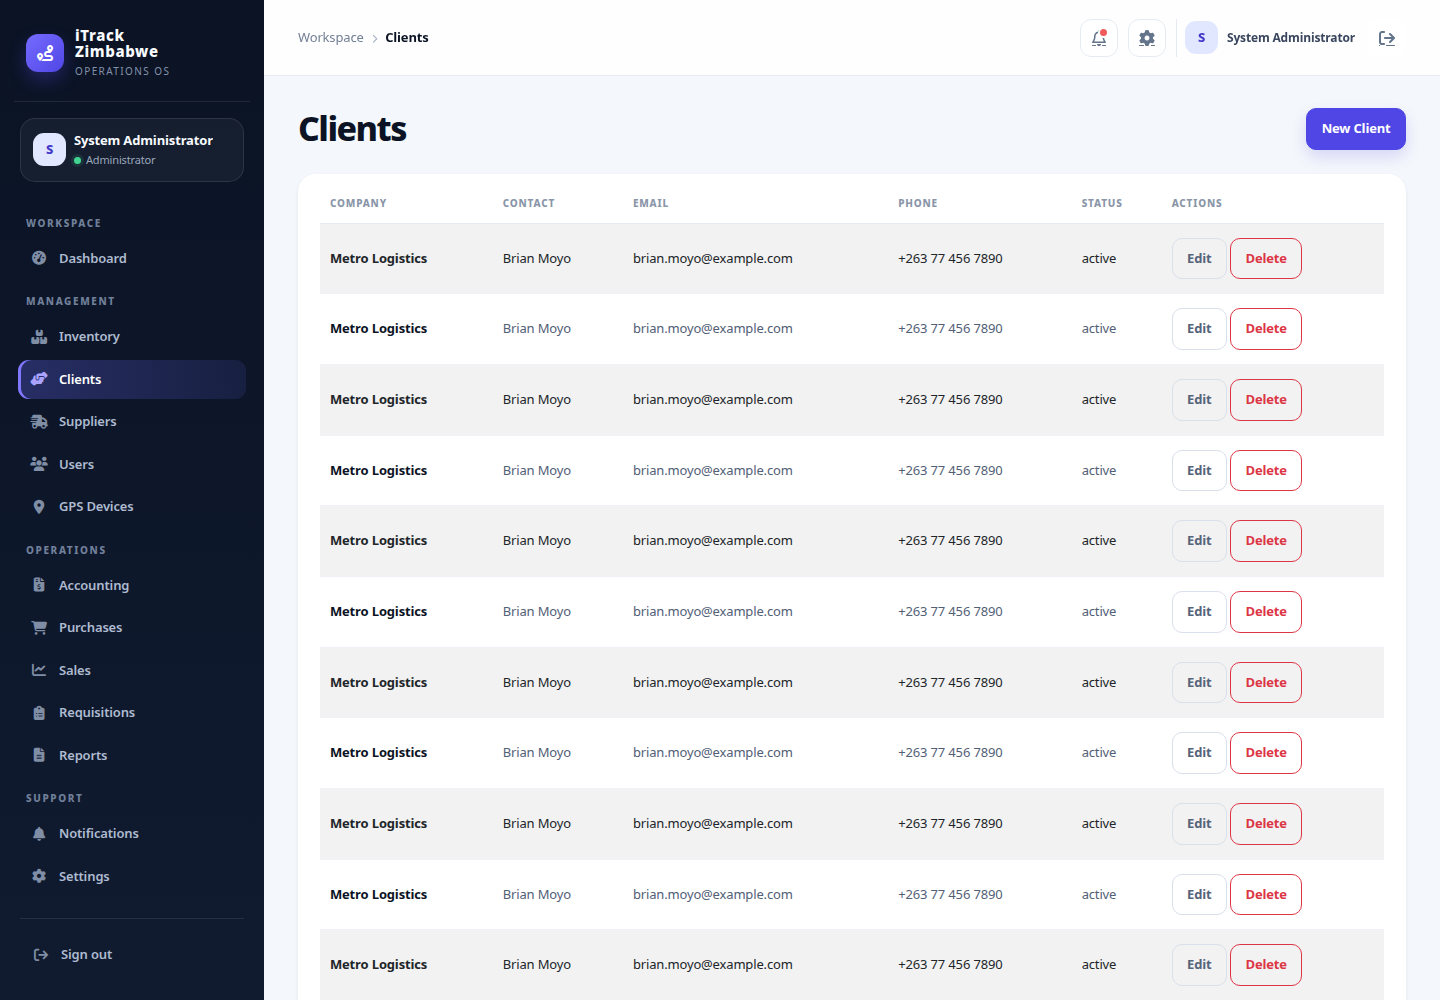
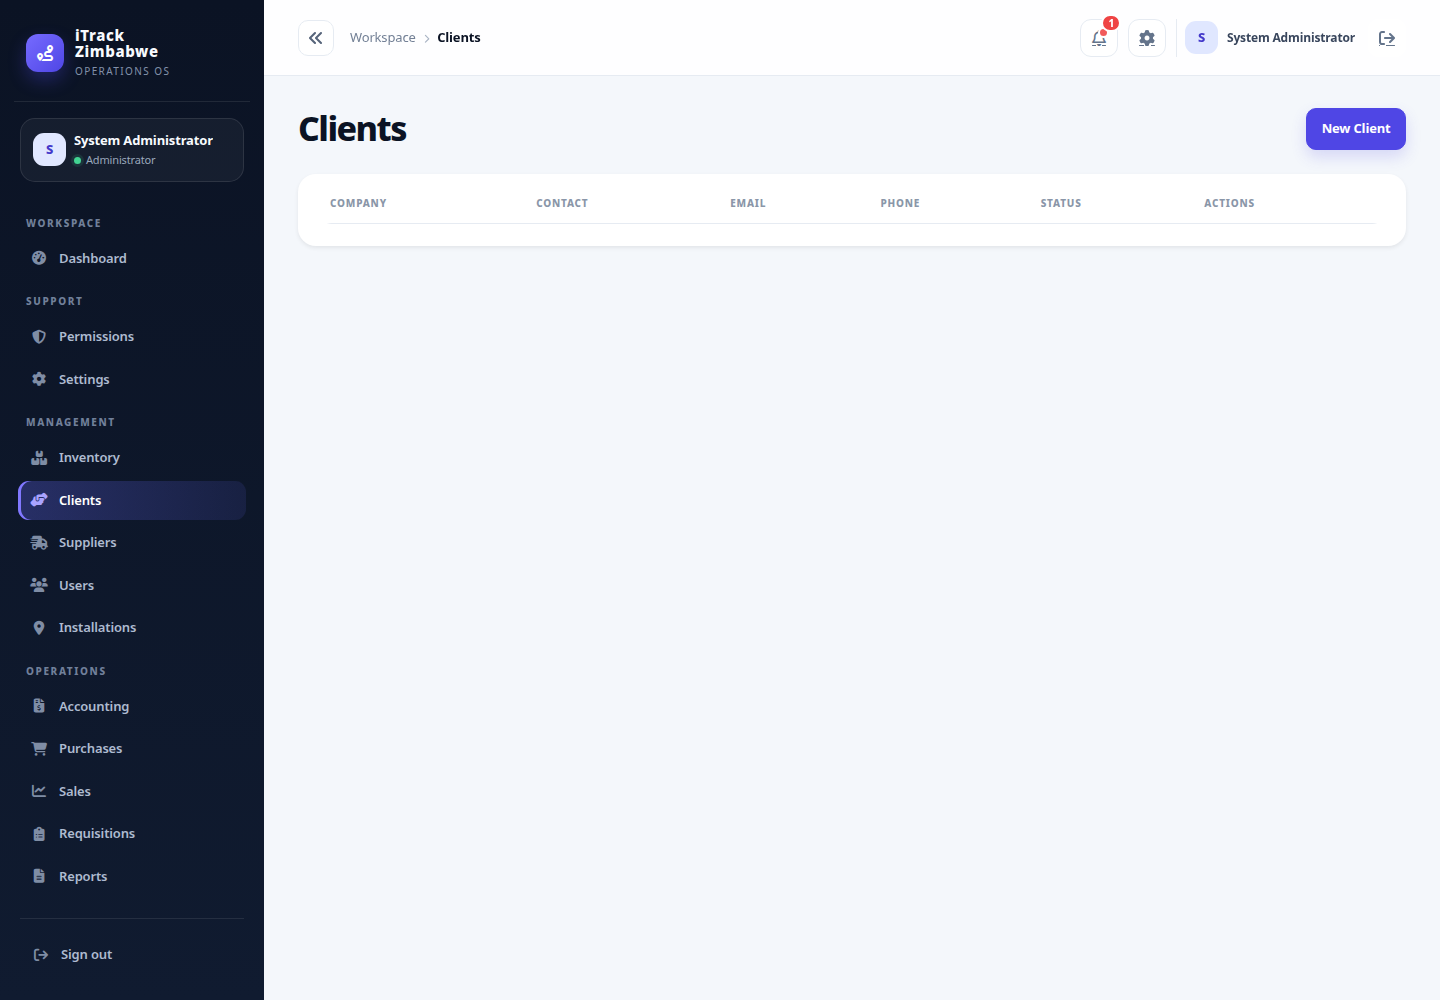
docs: refresh README and application screenshots

diff --git a/README.md b/README.md
@@ -1,95 +1,248 @@
 # iTrack Zimbabwe
 
-**iTrack Zimbabwe** is a PHP 8.1+ ERP-style operations application for inventory, procurement, sales, accounting, GPS device management, requisitions, reporting, notifications, and user administration.
+**iTrack Zimbabwe** is a lightweight PHP 8.1+ ERP-style operations platform for managing inventory, tracker installations, procurement, sales, accounting, requisitions, reporting, notifications, and users.
 
-## Implemented modules
+The application uses a small MVC structure built with plain PHP classes and PDO. It can run locally with SQLite and can be deployed with MySQL behind Apache, Nginx, or another PHP-capable web server.
 
-The application now includes authenticated dashboard access with role-aware navigation, inventory CRUD, supplier and client CRUD, GPS device CRUD, notification CRUD, user administration, purchase-order capture and status updates, sales capture and status visibility, requisition submission and approval, report-record generation with preset or custom calendar date ranges, accounting summary data, and reusable security, session, validation, formatting, upload, and permission helpers.
+## Current functionality
 
-The public JSON surface is available at `/api/auth.php`, `/api/inventory.php`, `/api/purchases.php`, `/api/sales.php`, `/api/requisitions.php`, `/api/reports.php`, `/api/accounting.php`, and `/api/gps.php` when using the built-in server. The original API files remain available at the repository-level `api/` directory for Apache deployments.
+### Authentication and access control
 
-## Inventory and GPS device records
+- Login and logout with session-based authentication.
+- Optional staff registration, controlled by `APP_ALLOW_REGISTRATION`.
+- Forgot-password and expiring password-reset-token flows.
+- Authenticated password changes.
+- CSRF protection, server-side validation, input sanitisation, and permission checks.
+- Role-aware navigation and module access.
+- Configurable role/module permission matrix.
 
-**Inventory** is the stock register for FLS units, cameras, SIM cards, mobile lines, and trackers. Each stock item has a category, model/type, quantity, prices, and an optional numeric serial number or IMEI. **Installations** records the tracker and any package equipment used, selecting only items currently in stock and reducing inventory quantities when saved. Invoices can be created from an installation.
+### Operations modules
 
-These are currently separate records in separate tables. Registering the same physical tracker in both modules does not link or transfer it between stock and operational tracking; that lifecycle connection is not implemented yet.
+- **Dashboard** – role-aware workspace with operational summaries and available-module access.
+- **Inventory** – stock records for trackers, FLS units, cameras, SIM cards/mobile lines, and related equipment; quantities, cost prices, selling prices, units, and optional numeric identifiers such as serial numbers, SIM numbers, or IMEIs.
+- **Bulk inventory** – create multiple stock lines in one submission, with validation for serialized items.
+- **Installations / GPS devices** – record tracker installations, tracker identifiers, and optional FLS, camera, and package equipment selected from available stock. Stock quantities are reduced when equipment is assigned.
+- **Bulk installations** – record several installations in one workflow.
+- **Clients** – customer and client organization records.
+- **Suppliers** – procurement partner records.
+- **Purchases** – purchase-order capture and status updates with supplier workflows and notifications.
+- **Sales** – sales capture and status visibility.
+- **Requisitions** – internal requests with approval and decision workflows.
+- **Notifications** – create, edit, delete, list, and mark notifications as read.
+- **Users** – staff accounts, roles, departments, and account status management.
+- **Settings** – application administration and configuration access.
+
+### Accounting and reporting
+
+- **Accounting summary** with access controlled for finance users.
+- **Invoices** with create, edit, delete, and print views.
+- **Payments**, **expenses**, **petty cash**, and **cash book** records with CRUD workflows.
+- **Reports** with operational and financial report types, preset periods, custom date ranges, previews, generated records, and export support.
+- **Report exports** through the PDF and XLSX report services.
+- Optional OpenRouter-powered business insights using bounded report aggregates. The assistant does not execute AI-generated SQL or receive customer names.
 
 ## Requirements
 
-- PHP 8.1 or newer
-- PDO SQLite for the local fallback, or PDO MySQL for production
-- A writable `storage/` directory and writable upload directories
+- PHP 8.1 or newer.
+- PDO SQLite for the local fallback, or PDO MySQL for MySQL deployments.
+- A web server such as Apache or Nginx for production, or PHP's built-in server for local development.
+- A writable `storage/` directory for the SQLite database, logs, and runtime files.
+- A writable `uploads/` directory when upload features are enabled.
+- Composer is optional; the project currently has no third-party runtime dependency requirement.
 
-## Run locally
+## Quick start
 
 From the repository root:
 
 ```bash
+git clone https://github.com/PraiseTechzw/itrack-zimbabwe.git
+cd itrack-zimbabwe
 php -S 127.0.0.1:8000 -t public
 ```
 
-On Windows (PowerShell or Command Prompt), run the same command:
+Open [http://127.0.0.1:8000/login.php](http://127.0.0.1:8000/login.php).
+
+On Windows with XAMPP, use the PHP executable supplied by XAMPP:
 
 ```powershell
 C:\xampp\php\php.exe -S 127.0.0.1:8000 -t public
 ```
 
-Open [http://127.0.0.1:8000/login.php](http://127.0.0.1:8000/login.php).
+Make sure the runtime directories exist and are writable by the PHP process:
 
-The application creates or uses `storage/itrack.sqlite` when PDO MySQL is unavailable. Configure `APP_BASE_URL`, database settings, and session settings in `.env` for a subdirectory or production deployment.
-
-### AI business insights
-
-The Reports page includes an optional OpenRouter assistant for questions about recent sales, low stock, and purchase-order totals. Configure an OpenRouter API key in the server-side `.env` file:
-
-```dotenv
-OPENROUTER_API_KEY="your-server-side-key"
-OPENROUTER_MODEL="openrouter/free"
+```bash
+mkdir -p storage uploads
+chmod -R u+rwX storage uploads
 ```
 
-The assistant sends the question and bounded report aggregates to OpenRouter; it does not send customer names or execute AI-generated SQL. Free model availability and rate limits can change. Keep the key out of source control, and do not enter personal or confidential information in prompts.
+The application creates `storage/itrack.sqlite` automatically when SQLite is selected or when PDO MySQL is unavailable.
+
+## Configuration
+
+The application reads an optional `.env` file from the repository root. Environment variables can also be supplied by the server process.
+
+```dotenv
+APP_NAME="iTrack Zimbabwe"
+APP_ENV=development
+APP_DEBUG=false
+APP_BASE_URL=/itrack-zimbabwe
+APP_PUBLIC_URL=
+APP_ALLOW_REGISTRATION=true
+APP_SESSION_SECURE=false
+SESSION_NAME=itrack_session
+CSRF_TOKEN_NAME=csrf_token
+
+# Use mysql explicitly for production, or auto for the default behaviour.
+DB_DRIVER=auto
+DB_HOST=127.0.0.1
+DB_PORT=3306
+DB_NAME=itrack_zimbabwe
+DB_USER=root
+DB_PASS=
+DB_SQLITE_PATH=/absolute/path/to/storage/itrack.sqlite
+
+UPLOAD_DIR=/absolute/path/to/uploads
+MAIL_FROM=no-reply@example.com
+
+# Optional Reports assistant
+OPENROUTER_API_KEY=
+OPENROUTER_MODEL=openrouter/free
+```
+
+Important configuration notes:
+
+- Set `APP_BASE_URL` to the path where the application is mounted. Use `/` when it is served at the domain root.
+- Set `APP_PUBLIC_URL` when generated links must use a complete public URL.
+- Set `APP_SESSION_SECURE=true` when the application is served over HTTPS.
+- Disable public registration in production unless it is intentionally required.
+- Keep database credentials and API keys out of source control.
+- `DB_DRIVER=mysql` selects MySQL explicitly. The default `auto` mode uses the available PDO driver and falls back to SQLite when MySQL is unavailable.
 
 ## Default local login
+
+The seeded local account is:
 
 - Email: `admin@example.com`
 - Password: `password`
 
-Change the default password immediately in any non-local environment.
+Change this password immediately outside a local development environment.
 
-## Screenshots
+## Current application screenshots
 
-The repository includes current application screenshots in [`docs/screenshots/`](docs/screenshots/). The gallery covers the public login screen and the authenticated dashboard and module pages.
+The following screenshots were captured from the running application after the current build was started and authenticated with the local seeded account. They are documentation captures only and contain no production data.
 
 | Screen | Preview |
 |---|---|
-| Login | ![Login screen](docs/screenshots/login.png) |
-| Dashboard | ![Dashboard](docs/screenshots/dashboard.png) |
-| Dashboard mobile | ![Mobile dashboard](docs/screenshots/dashboard-mobile.png) |
-| Inventory | ![Inventory](docs/screenshots/inventory.png) |
-| Purchases | ![Purchases](docs/screenshots/purchases.png) |
-| Sales | ![Sales](docs/screenshots/sales.png) |
-| Requisitions | ![Requisitions](docs/screenshots/requisitions.png) |
-| Reports | ![Reports](docs/screenshots/reports.png) |
-| Accounting | ![Accounting](docs/screenshots/accounting.png) |
-| GPS devices | ![GPS devices](docs/screenshots/gps.png) |
-| Clients | ![Clients](docs/screenshots/clients.png) |
-| Suppliers | ![Suppliers](docs/screenshots/suppliers.png) |
-| Notifications | ![Notifications](docs/screenshots/notifications.png) |
-| Users | ![Users](docs/screenshots/users.png) |
-| Settings | ![Settings](docs/screenshots/settings.png) |
+| Login | ![Current login screen](docs/screenshots/login.png) |
+| Dashboard | ![Current dashboard](docs/screenshots/dashboard.png) |
+| Dashboard mobile | ![Current mobile dashboard](docs/screenshots/dashboard-mobile.png) |
+| Inventory | ![Current inventory](docs/screenshots/inventory.png) |
+| Installations / GPS devices | ![Current installations screen](docs/screenshots/gps.png) |
+| Accounting | ![Current accounting screen](docs/screenshots/accounting.png) |
+| Reports | ![Current reports screen](docs/screenshots/reports.png) |
+| Clients | ![Current clients screen](docs/screenshots/clients.png) |
+
+## MySQL setup
+
+For a new MySQL database:
+
+1. Create a database named `itrack_zimbabwe`.
+2. Configure the `DB_*` variables in `.env`.
+3. Import [`database/schema.sql`](database/schema.sql).
+4. Import [`database/seed.sql`](database/seed.sql).
+5. Apply any required scripts in [`database/migrations/`](database/migrations/) to an existing database before deploying code that depends on those changes.
+
+Important migrations cover inventory device details, IMEIs, SIM numbers, password-reset tokens, stock-backed installations and invoices, and the mobile-line/SIM-card model update.
 
 ## Application routes
 
-All authenticated modules are routed through `public/index.php` using the `controller` and `action` query parameters. Examples include `?controller=inventory`, `?controller=clients`, `?controller=purchases`, `?controller=sales`, `?controller=requisition`, `?controller=reports`, `?controller=notification`, and `?controller=settings`.
+Authenticated modules are routed through `public/index.php` using `controller` and `action` query parameters. Examples:
 
-## Database
+```text
+/index.php?controller=inventory
+/index.php?controller=gps
+/index.php?controller=accounting&action=invoices
+/index.php?controller=purchases
+/index.php?controller=sales
+/index.php?controller=requisition
+/index.php?controller=reports
+/index.php?controller=notification
+/index.php?controller=permissions
+/index.php?controller=settings
+```
 
-MySQL deployments should import `database/schema.sql` followed by `database/seed.sql` and set the `DB_*` variables in `.env`. Local development uses the SQLite schema and seed logic in `app/config/database.php`.
+Public entry points are available under [`public/`](public/), including the login, logout, dashboard, and API entry points. The repository-level [`api/`](api/) copies remain available for Apache deployments that expose them directly.
 
-## Verification
+## JSON API
 
-The project has been checked with a full PHP syntax pass, authenticated HTTP smoke tests for every dashboard module, public registration and password-recovery page checks, JSON validation for every public API endpoint, and authenticated create-action checks for purchases, sales, requisitions, and reports.
+The read-oriented API endpoints return JSON with an `ok` flag and module-specific data. The authentication endpoint also supports login and session checks.
 
-## Documentation
+| Endpoint | Purpose |
+|---|---|
+| `/api/auth.php` | Authentication and session status |
+| `/api/inventory.php` | Inventory products and stock records |
+| `/api/purchases.php` | Purchase orders |
+| `/api/sales.php` | Sales records |
+| `/api/requisitions.php` | Requisitions |
+| `/api/reports.php` | Reports |
+| `/api/accounting.php` | Accounting data |
+| `/api/gps.php` | Tracker installation / GPS device records |
 
-Additional installation, development, architecture, deployment, and security guidance is available in [docs](docs/).
+When using the built-in server, use the corresponding paths under `public/api/`, for example `http://127.0.0.1:8000/api/inventory.php`.
+
+## Project structure
+
+```text
+app/
+  config/        Environment, application, database, and route configuration
+  controllers/   Request handlers for each module
+  core/          Router, controller, model, database, session, and security classes
+  helpers/       Authentication, permissions, validation, formatting, uploads, and responses
+  middleware/    Authentication, administrator, and permission middleware
+  models/        Database models and domain operations
+  services/      Report formatting, PDF/XLSX generation, and optional AI insights
+  views/         Server-rendered PHP views
+public/          Web document root and public entry points
+api/             API entry points for direct Apache deployments
+database/        Schema, seed data, migrations, and backup guidance
+docs/            Installation, development, architecture, deployment, and security guides
+tests/           Lightweight verification scripts
+storage/         Writable runtime data, including the SQLite database
+uploads/         Writable uploaded documents and media
+```
+
+See the [architecture guide](docs/ARCHITECTURE.md) for request flow and core components, and the [development guide](docs/DEVELOPMENT.md) for the recommended MVC workflow.
+
+## Development and verification
+
+Useful checks from the repository root:
+
+```bash
+# Syntax-check all PHP source files
+find app api public includes tests -type f -name '*.php' -print0 | xargs -0 -n1 php -l
+
+# Run the lightweight notification helper check
+php tests/notification_service_test.php
+```
+
+The project currently relies primarily on PHP syntax checks, module smoke tests, and manual browser verification. The notification test expects a working configured database because it creates a notification record.
+
+Before opening a pull request, verify login, role-based navigation, CRUD actions, bulk inventory, installations, accounting workflows, report previews/exports, API responses, and password recovery in the target environment.
+
+## Deployment and security
+
+For production deployments:
+
+- Point the web-server document root at [`public/`](public/), not the repository root.
+- Enable PHP and `pdo_mysql` when using MySQL.
+- Use HTTPS and set `APP_SESSION_SECURE=true`.
+- Keep `storage/` and `uploads/` writable but prevent source files and secrets from being served publicly.
+- Rotate the default administrator password and use strong individual passwords.
+- Restrict database, log, upload, and backup permissions.
+- Keep PHP, the web server, and database server updated.
+
+Read the [installation guide](docs/INSTALLATION.md), [deployment guide](docs/DEPLOYMENT.md), and [security guide](docs/SECURITY.md) for additional guidance. Report security issues privately to the repository maintainer rather than opening a public issue.
+
+## License
+
+See [`LICENSE`](LICENSE) for the project license.

diff --git a/docs/README.md b/docs/README.md
@@ -12,4 +12,4 @@ This directory contains the project documentation for the iTrack Zimbabwe ERP ap
 
 ## Project summary
 
-The application is a PHP MVC ERP system for authentication, inventory, sales, purchases, accounting, requisitions, reports, GPS devices, notifications, suppliers, clients, and user administration. A complete visual gallery is available in [`screenshots/`](screenshots/) and is also linked from the root [README](../README.md).
+The application is a PHP MVC ERP system for authentication, inventory, tracker installations, sales, purchases, accounting, requisitions, reports, notifications, suppliers, clients, permissions, and user administration. The root [README](../README.md) contains the current setup, configuration, module, API, and deployment overview.
